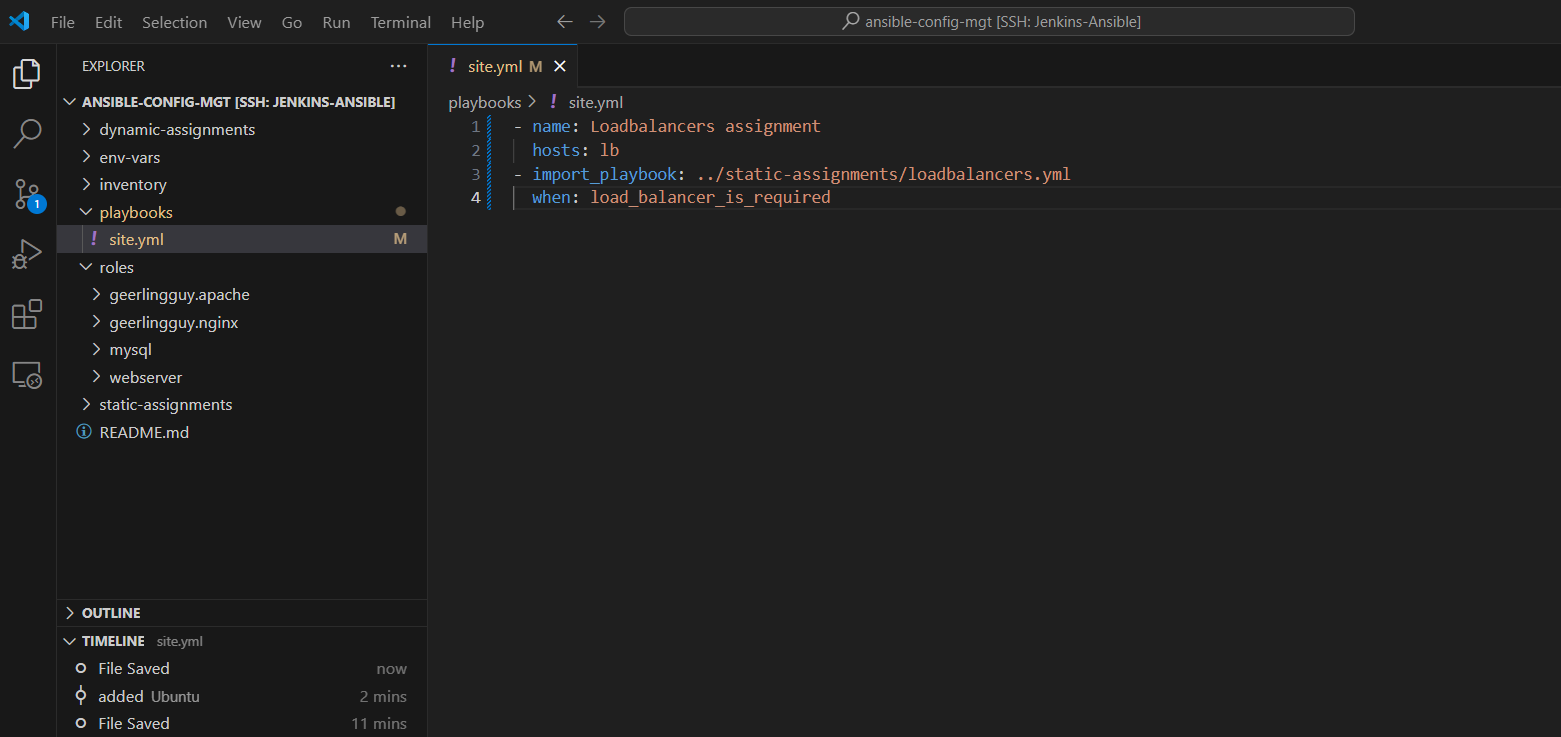
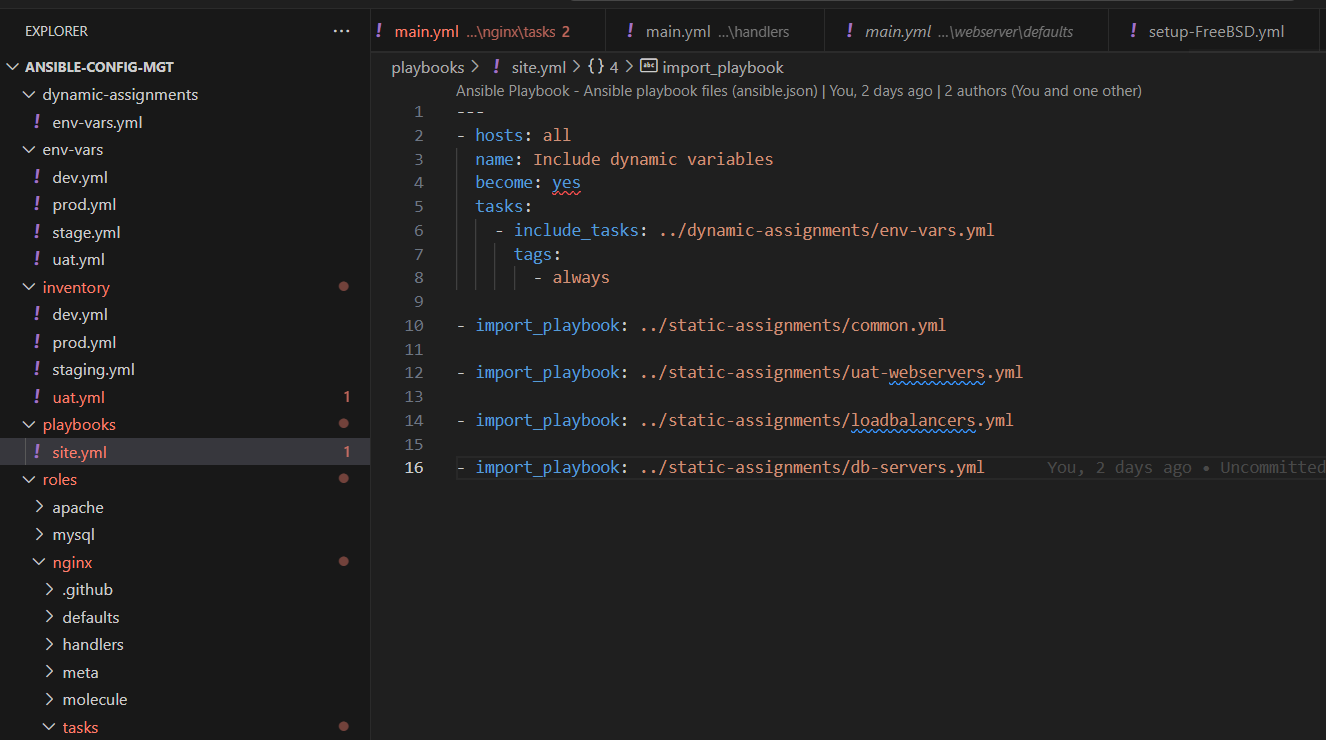
folder added

diff --git a/Ansible_Dynamic_Assign_and_Community/Ansible_dynamic_assign_doc.md b/Ansible_Dynamic_Assign_and_Community/Ansible_dynamic_assign_doc.md
@@ -476,7 +476,7 @@ nginx_http_proxy:
    ```
    ![Access Application](./self_study/images/ff.png)
 
-. **Configure the `loadbalancers.yml` Assignment**:
+6. **Configure the `loadbalancers.yml` Assignment**:
    I created a `loadbalancers.yml` file in the `static-assignments` directory and set conditions for applying the roles:
    ```yaml
    - hosts: lb
@@ -486,7 +486,7 @@ nginx_http_proxy:
    ```
    ![Access Application](./self_study/images/ab.png)
 
-6. **Update the `site.yml` File**:
+7. **Update the `site.yml` File**:
    I updated the `site.yml` file to include the new load balancer playbook:
    ```yaml
    - name: Loadbalancers assignment
@@ -496,7 +496,22 @@ nginx_http_proxy:
    ```
    ![Access Application](./self_study/images/rr.png)
 
-7. **Set Variables in Environment-Specific Files**:
+8. **pdate inventory/uat.yml**
+
+```yaml
+[uat-webservers]
+172.31.18.6 ansible_ssh_user=ec2-user
+172.31.19.105 ansible_ssh_user=ec2-user
+
+[db_servers]
+172.31.88.43 ansible_ssh_user=ec2-user
+
+[lb]
+172.31.86.76 ansible_ssh_user=ubuntu
+```
+![Access Application](./self_study/images/sa.png)
+
+9. **Set Variables in Environment-Specific Files**:
    In the `env-vars` folder, I set the necessary variables in the `uat.yml` file to activate the Nginx load balancer:
    ```yaml
    enable_nginx_lb: true
@@ -506,7 +521,7 @@ nginx_http_proxy:
 
    To use Apache instead, I would set `enable_nginx_lb` to `false` and `enable_apache_lb` to `true`.
 
-8. **Test**:
+10. **Test**:
 
    Command to run the playbook
    ```bash
